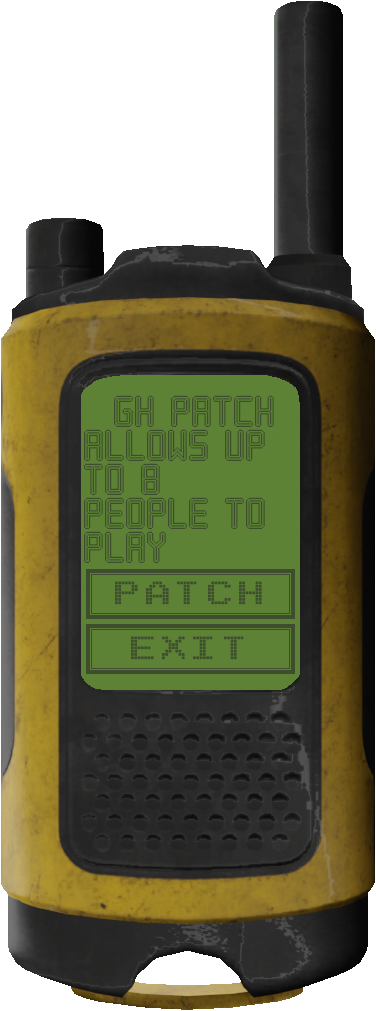
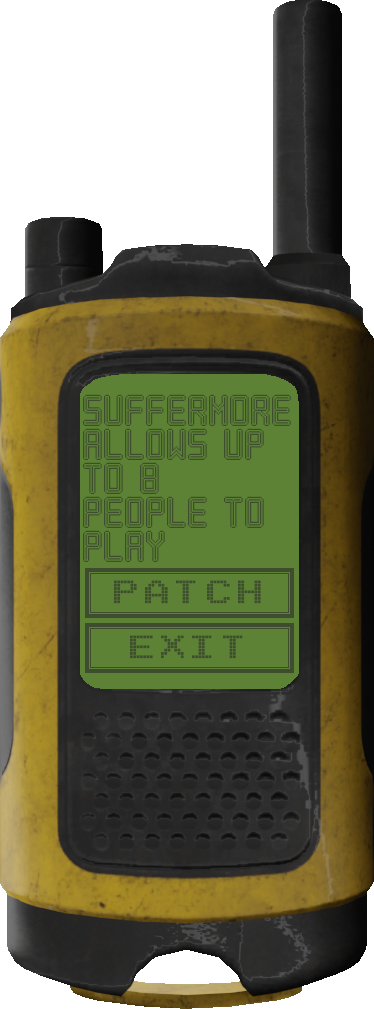
rename

diff --git a/src/CApp.cpp b/src/CApp.cpp
@@ -2,7 +2,7 @@
 #include "resource.h"
 #include <mmsystem.h>
 
-#include "gh_patch.h"
+#include "CApp.h"
 #include "CMainWindow.h"
 #include "../includes/ufmod.h"
 

diff --git a/src/CMainWindow.cpp b/src/CMainWindow.cpp
@@ -1,6 +1,5 @@
 #include "Global.h"
 #include "Resource.h"
-#include "gh_patch.h"
 #include "CMainWindow.h"
 #include "CCustomButton.h"
 #include "CScreen.h"
